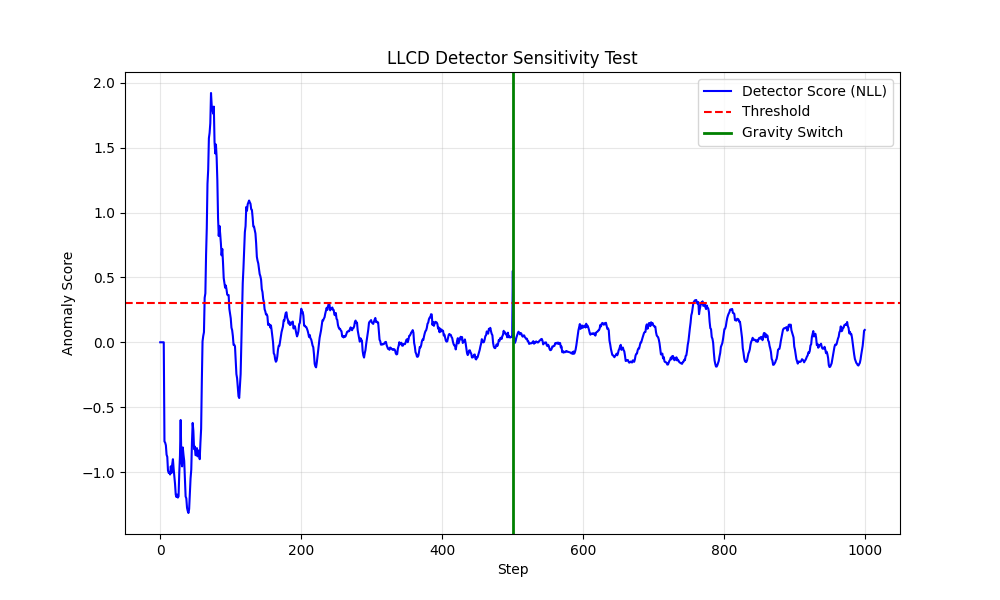
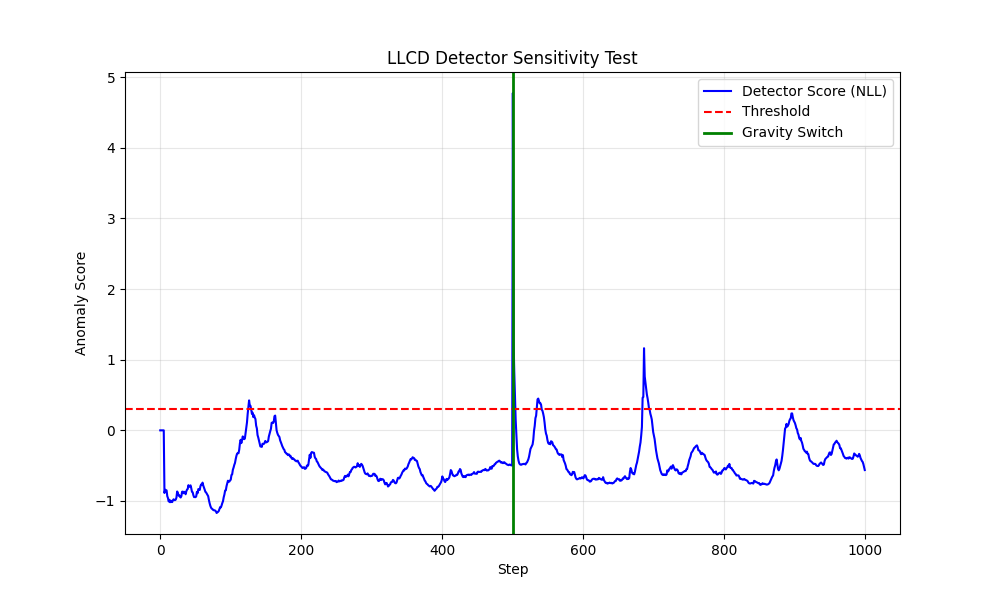
llcd v0.3, not sure if adaptation is triggering during the full training run

diff --git a/models.py b/models.py
@@ -36,9 +36,14 @@ class WorldModel(nn.Module):
         self._config = config
         
         # [LLCD] Initialize the Library Wrapper
+        is_llcd_on = getattr(config, "llcd", False)
+        print(f"-------- WORLD MODEL INITIALIZED --------")
+        print(f"LLCD ADAPTATION MODE: {'✅ ON' if is_llcd_on else '❌ OFF'}")
+        print(f"-----------------------------------------")
         # config.dyn_deter is the size of the GRU memory (usually 512)
         self.change_detector = ChangeDetector(input_dim=config.dyn_deter)
-        self.adaptation_timer = 0  # <--- ADD THIS
+        self.adapting = False       # <--- ADD THIS LINE
+        self.adaptation_timer = 0   # <--- Keep this if using the timer logic
         shapes = {k: tuple(v.shape) for k, v in obs_space.spaces.items()}
         self.encoder = networks.MultiEncoder(shapes, **config.encoder)
         self.embed_size = self.encoder.outdim
@@ -127,17 +132,20 @@ class WorldModel(nn.Module):
                 )
 
                 # --- [LLCD] DETECT CHANGE ---
-                # Take mean of deterministic state [Batch, Time, Dim] -> [Dim]
-                # Use the last time step for detection
-                current_deter = post["deter"][:, -1, :].mean(dim=0)
-                
-                # Check for change
-                has_changed, score = self.change_detector.update(current_deter)
-                
-                if has_changed:
-                    print(f"[LLCD] 🚨 CHANGE DETECTED! Score: {score:.2f} | Triggering 50-step Adaptation.")
-                    self.adaptation_timer = 50  # Set window length
-                    self.change_detector.reset() # Reset stats for the new task
+                # Use the timer
+                if getattr(self._config, "llcd", False) and self.adaptation_timer > 0:
+                    # ... apply loss ...
+                    # Take mean of deterministic state [Batch, Time, Dim] -> [Dim]
+                    # Use the last time step for detection
+                    current_deter = post["deter"][:, -1, :].mean(dim=0)
+                    
+                    # Check for change
+                    has_changed, score = self.change_detector.update(current_deter)
+                    
+                    if has_changed:
+                        print(f"[LLCD] 🚨 CHANGE DETECTED! Score: {score:.2f} | Triggering 50-step Adaptation.")
+                        self.adaptation_timer = 50  # Set window length
+                        self.change_detector.reset() # Reset stats for the new task
                 # ----------------------------
 
                 kl_free = self._config.kl_free
@@ -182,7 +190,7 @@ class WorldModel(nn.Module):
                 # If timer is active, boost Dynamics Loss (KL) to force rapid learning
                 total_loss = sum(scaled.values()) + kl_loss
                 
-                if self.adaptation_timer > 0:
+                if getattr(self._config, "llcd", False) and self.adapting:
                     adapt_weight = 10.0
                     total_loss += adapt_weight * dyn_loss
                     self.adaptation_timer -= 1

diff --git a/analyze_metrics.py b/analyze_metrics.py
@@ -29,5 +29,5 @@ def calculate_convergence(log_file, threshold=300):
     return convergence_results
 
 if __name__ == "__main__":
-    log_path = "./logdir/dmc_crl_cartpole_test_v3/metrics.jsonl"
+    log_path = "./logdir/dmc_crl_cartpole_full_run_2/metrics.jsonl"
     calculate_convergence(log_path, threshold=400)
